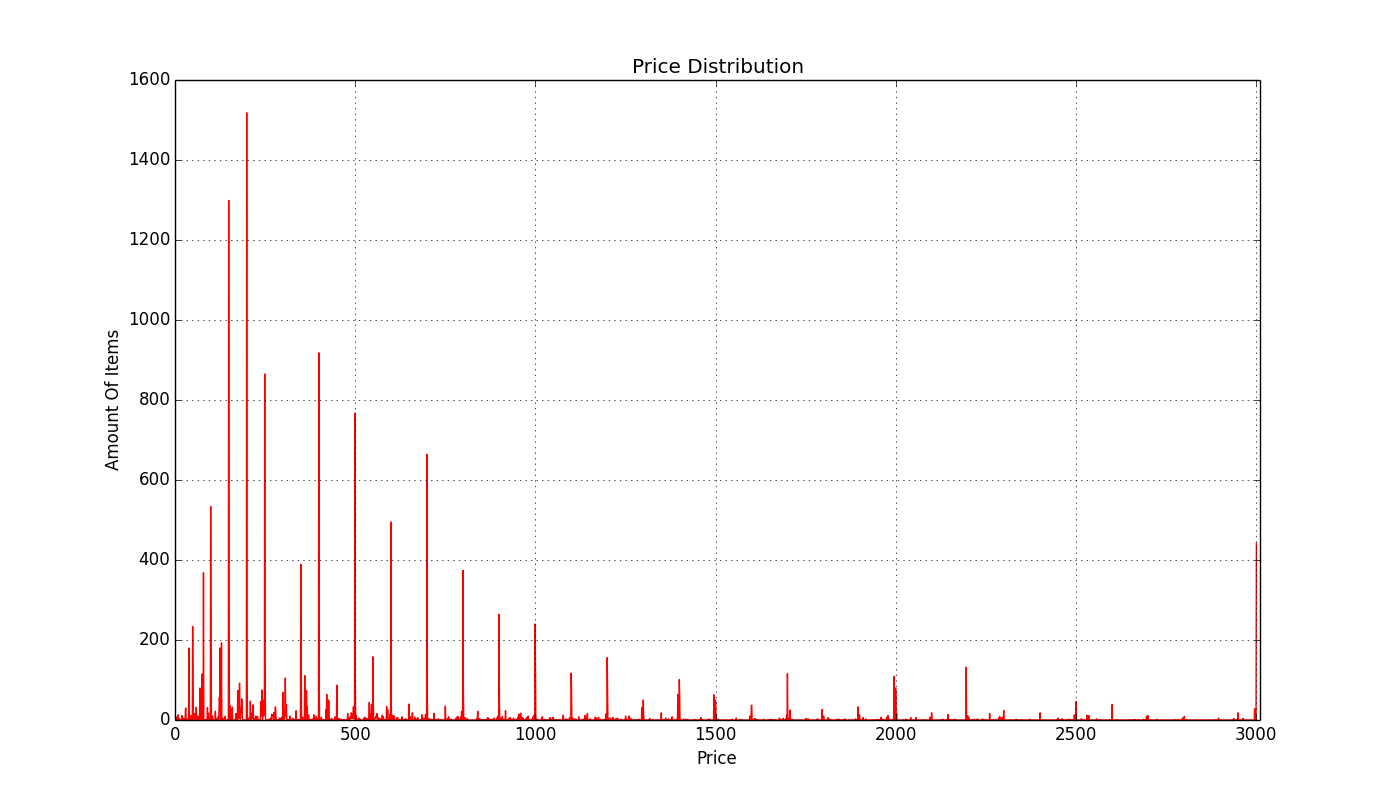
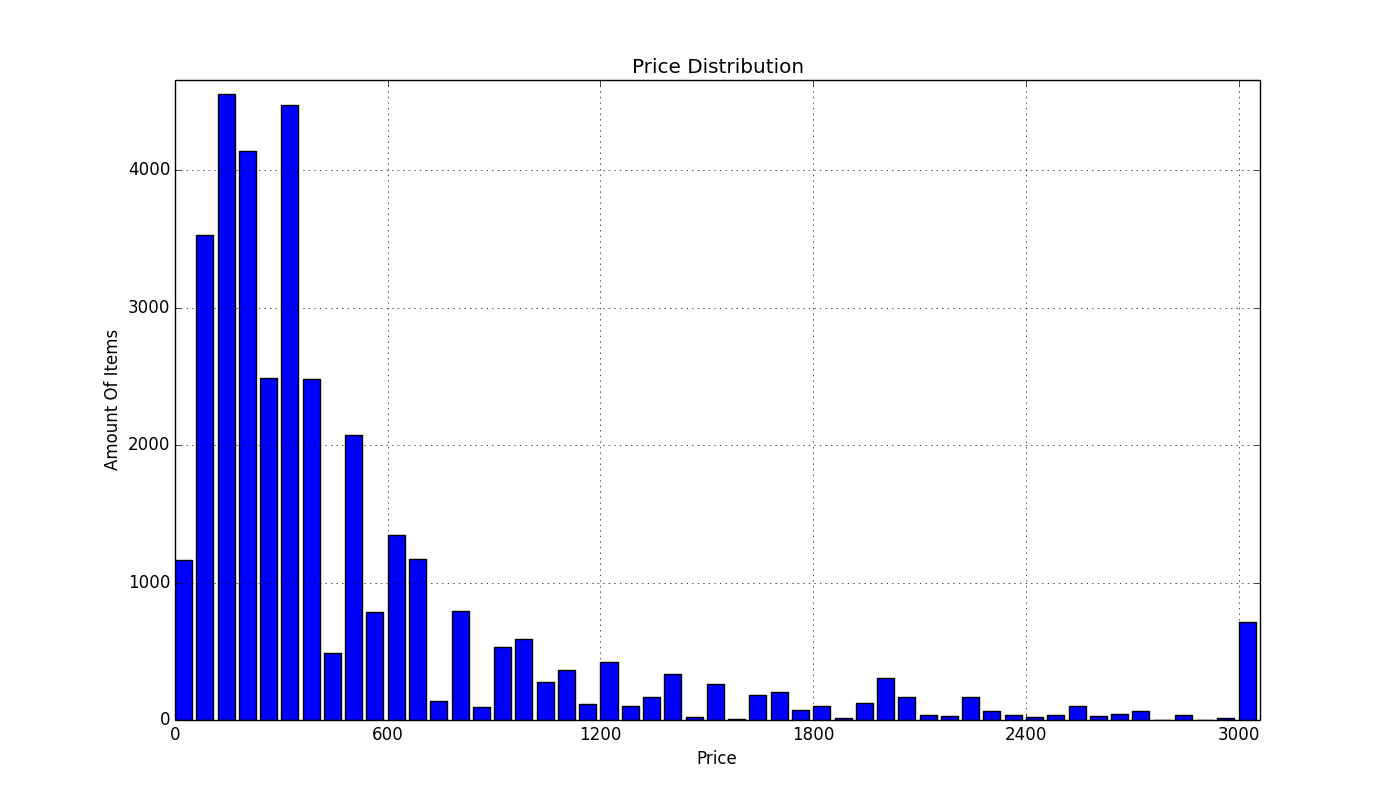
some new graphs, remade some other

Changed region(s): [[0.0614, 0.0938, 0.9214, 0.9375], [0.0921, 0.1875, 0.1229, 0.2188], [0.0921, 0.0938, 0.1229, 0.125]]

diff --git a/src/masterChapters/02-soBazarData.tex b/src/masterChapters/02-soBazarData.tex
@@ -5,7 +5,7 @@
     This sections is dedicated to exploring the Sobazar data set.
     This includes how the data was preprocessed, a summary of the dataset, statistics and graphs about the data and findings from the data.
 
-% mtodo - før vi kan lære dette
+% mtodo - før vi kan lære detteq
     % 2. sessions of events m eksempel
 
 \section{Data Cleaning}
@@ -183,15 +183,14 @@
 
     %mtodo - better buckets to better capture the ranges
     %mtodo - ikke ha all teksten i captionen til figuren, ha det heller i vanlig tekst
-    \marginpar{TODO - Make it pretty}
     \begin{figure}[H]
-        \includegraphics[width=5in]{image/event_id.png}
+        \includegraphics[width=5in]{image/event_iddistribution.png}
         \centering
         \caption[Count for different events]{This figure displays the count for each of the different events which can be triggered in the Sobazar application.
         The "collection\_viewed"-event and "storefront\_clicked"-event are the most common events to be triggered.
         Both of these types of events will send the user to an item overview, and indicates that many users browse the items through looking at the thumbnails rather than accessing the items, since the two named event types are gateways to collections of items, and if most of the users actually accessed most of the items the "product\_detail\_clicked", "product\_wanted" and "product\_purchase\_intended" would have had the majority of the events triggered.}
     \end{figure}
-	\marginpar{TODO - Make it pretty}
+
     \begin{figure}[H]
         \includegraphics[width=5in]{image/event_distr.png}
         \centering
@@ -310,6 +309,43 @@
         \label{figure:viewBuy}
     \end{figure}
 
+
+
+    \begin{figure}[H]
+        \includegraphics[width=5in]{image/storefront_namedistribution.png}
+        \centering
+        \caption[View time before purchasing an item]{mtodo}
+        \label{figure:viewBuy}
+    \end{figure}
+
+    \begin{figure}[H]
+        \includegraphics[width=5in]{image/retailer_branddistribution.png}
+        \centering
+        \caption[View time before purchasing an item]{mtodo}
+        \label{figure:viewBuy}
+    \end{figure}
+
+    \begin{figure}[H]
+        \includegraphics[width=5in]{image/hrdistribution.png}
+        \centering
+        \caption[View time before purchasing an item]{mtodo}
+        \label{figure:viewBuy}
+    \end{figure}
+
+    \begin{figure}[H]
+        \includegraphics[width=5in]{image/user_iddistribution.png}
+        \centering
+        \caption[View time before purchasing an item]{mtodo}
+        \label{figure:viewBuy}
+    \end{figure}
+
+    \begin{figure}[H]
+        \includegraphics[width=5in]{image/user_idcumdistribution.png}
+        \centering
+        \caption[View time before purchasing an item]{mtodo}
+        \label{figure:viewBuy}
+    \end{figure}
+
 \subsection{About the view time before tanking an action}
     As seen from the figures~\ref{figure:bounceRate}, ~\ref{figure:viewWant} and~\ref{figure:viewBuy}, the bounce rate is quite small compared to the time it takes for a user to decide to want or buy an item.
     This could be used as an indication of negative feedback, but since there is no explicit feedback to to test this, it might lead to rating an item negatively when the user in fact would like to rate it positively.
@@ -345,7 +381,6 @@
     order to reduce number of arrows}
 
     % mtodo - fix lol
-    \marginpar{Will be moved to appendices}
 %     Init Hypothesis:
 %     Two users with similar session habits and similar product accessing pattern
 %     have a stronger correlation to one-another than two users with just similar
